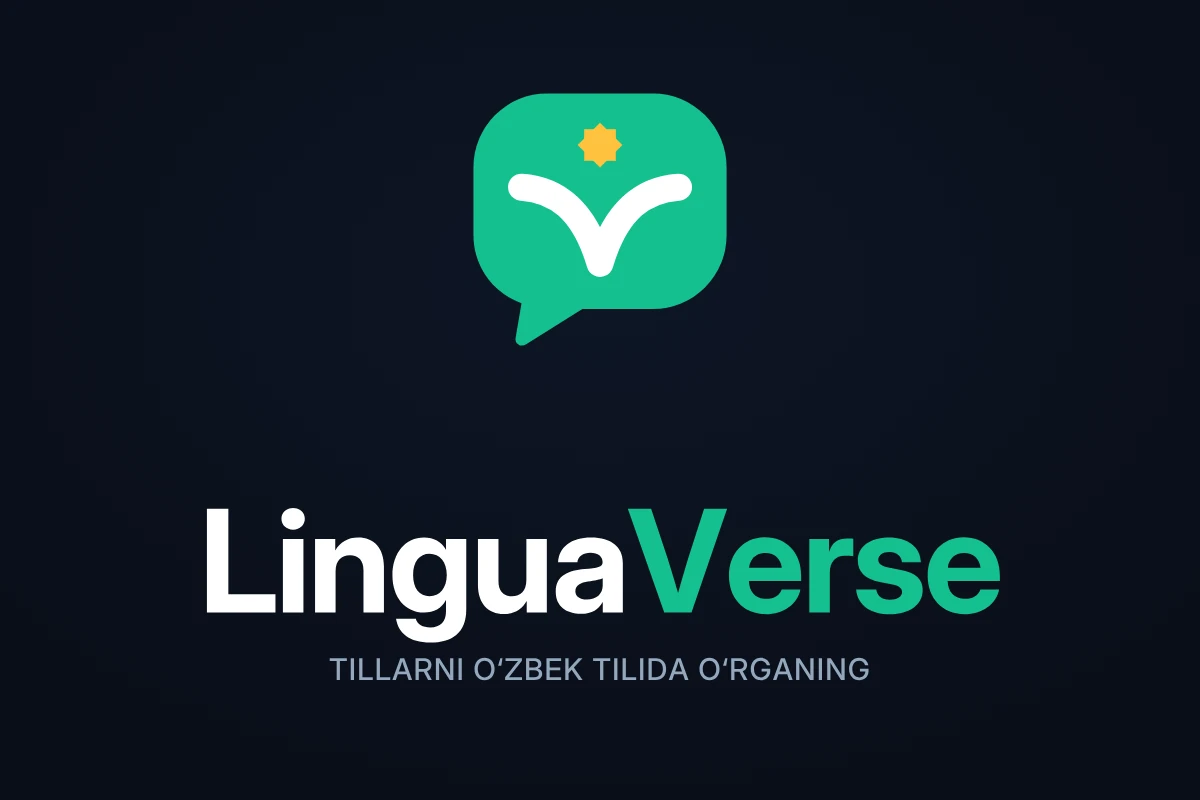
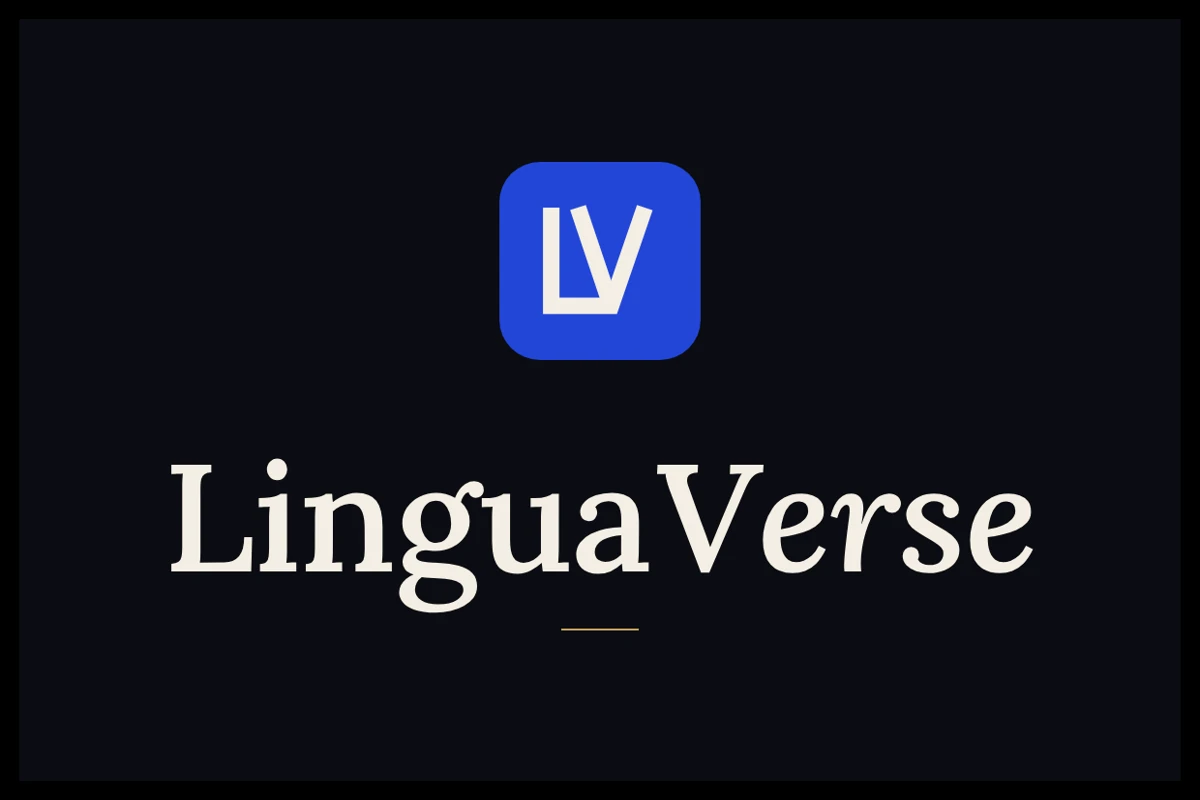
Brend: 'Samarqand × nashriyot' uslubi — LV monogramma, Lora serif sarlavhalar, siyoh/qog'oz/lojuvard palitra, emoji va o'yinchoq ranglar olib tashlandi
Claude-Session: https://claude.ai/code/session_01HZtrzLUi9H7699QjSdHDCt

Changed region(s): [[0.1233, 0.5625, 0.8633, 0.875], [0.37, 0.0938, 0.6167, 0.4688], [0.0, 0.0, 1.0, 0.75]]

diff --git a/css/lv-theme.css b/css/lv-theme.css
@@ -1,4 +1,4 @@
-@import url('https://fonts.googleapis.com/css2?family=Inter:wght@400;500;600;700;800&family=Inter+Tight:wght@600;700;800&display=swap');
+@import url('https://fonts.googleapis.com/css2?family=Inter:wght@400;500;600;700&family=Lora:ital,wght@0,500;0,600;1,500;1,600&display=swap');
 /* ═══════════════════════════════════════════════════════════════════
    LinguaVerse — YAGONA TEMA
    Butun saytda bitta shrift, bitta rang palitrasi, bitta kursor qoidasi.
@@ -1043,78 +1043,76 @@ html[data-lv-performance="powerful"] [class$="-card"] {
 
 
 /* ═══════════════════════════════════════════════════════════════════
-   LINGUAVERSE BRAND 2026 — yagona brend tizimi (barcha sahifalar)
-   Logo: /media/linguaverse-mark.svg · Asosiy rang: Verse Mint #14C08F
-   Siyoh (fon): #0A0F1A · Ikkinchi: Indigo #5B7CFF · Urg'u: Saffron #FFC23D
+   LINGUAVERSE BRAND 2026 — "Samarqand × zamonaviy nashriyot"
+   Logo: /media/linguaverse-mark.svg (LV monogramma)
+   Siyoh #0B0D12 · Qog'oz #F3EEE4 · Lojuvard #2346D8 (asosiy) · Oltin #C9A45C (juda kam)
+   Sarlavha: Lora (serif) · Matn: Inter
    ═══════════════════════════════════════════════════════════════════ */
 :root, :root[data-theme="dark"] {
-  --brand: #14C08F; --brand-2: #0FA57A; --brand-ink: #04261C; --brand-soft: rgba(20,192,143,.12);
-  --indigo: #5B7CFF; --saffron: #FFC23D;
+  --brand: #4A6CF0; --brand-2: #3A5BDF; --brand-deep: #2346D8; --brand-soft: rgba(74,108,240,.12);
+  --paper: #F3EEE4; --ink: #0B0D12; --goldline: #C9A45C;
   --font-body: 'Inter', system-ui, -apple-system, 'Segoe UI', Roboto, sans-serif;
-  --font-head: 'Inter Tight', 'Inter', system-ui, sans-serif;
+  --font-head: 'Lora', 'Georgia', 'Times New Roman', serif;
   --font-display: var(--font-head); --font-b: var(--font-body); --font-h: var(--font-head); --font-d: var(--font-head);
-  --bg: #0A0F1A; --bg2: #0F1624; --bg3: #151E30; --bg4: #1D283D;
-  --surface: rgba(255,255,255,.035); --surface2: rgba(255,255,255,.055); --surface3: rgba(255,255,255,.08);
-  --nav-bg: rgba(10,15,26,.82); --sidebar: #0F1624;
-  --text: #F4F7FB; --text2: #C6CFDC; --text3: #8E9AAE; --muted: #8E9AAE;
-  --border: rgba(255,255,255,.08); --border2: rgba(255,255,255,.14); --border-hi: rgba(20,192,143,.55);
-  --accent: #14C08F; --accent2: #FFC23D; --gold: #FFC23D; --cyan: #4FD1E8; --purple: #9B8CFF;
-  --radius: 14px; --card-hover: rgba(255,255,255,.06); --card-accent: rgba(20,192,143,.12);
-  --shadow-1: 0 1px 2px rgba(0,0,0,.25), 0 8px 24px -12px rgba(0,0,0,.45);
-  --shadow-2: 0 2px 6px rgba(0,0,0,.25), 0 24px 60px -24px rgba(0,0,0,.6);
+  --bg: #0B0D12; --bg2: #111419; --bg3: #171B22; --bg4: #1F242D;
+  --surface: rgba(243,238,228,.03); --surface2: rgba(243,238,228,.05); --surface3: rgba(243,238,228,.08);
+  --nav-bg: rgba(11,13,18,.85); --sidebar: #111419;
+  --text: #F3EEE4; --text2: #BDB7AB; --text3: #8C877D; --muted: #8C877D;
+  --border: rgba(243,238,228,.09); --border2: rgba(243,238,228,.16); --border-hi: rgba(74,108,240,.6);
+  --accent: #4A6CF0; --accent2: #C9A45C; --gold: #C9A45C; --gold2: #B08D57; --cyan: #7C9BFF; --purple: #9D93D6;
+  --green: #6FB58A; --success: #6FB58A; --yellow: #D9B25F; --orange: #D6946A; --red: #D9746C; --pink: #C98AA6;
+  --radius: 10px; --card-hover: rgba(243,238,228,.05); --card-accent: rgba(74,108,240,.1);
+  --shadow-1: 0 1px 0 rgba(243,238,228,.03) inset, 0 10px 30px -18px rgba(0,0,0,.7);
+  --shadow-2: 0 1px 0 rgba(243,238,228,.04) inset, 0 30px 70px -30px rgba(0,0,0,.85);
 }
 :root[data-theme="light"] {
-  --brand: #0EA77B; --brand-2: #0B8F69; --brand-soft: rgba(14,167,123,.1);
-  --bg: #F7F8FA; --bg2: #FFFFFF; --bg3: #EEF1F5; --bg4: #E3E8EF;
-  --surface: rgba(10,15,26,.03); --surface2: rgba(10,15,26,.045); --surface3: rgba(10,15,26,.07);
-  --nav-bg: rgba(255,255,255,.85); --sidebar: #FFFFFF;
-  --text: #0A0F1A; --text2: #364152; --text3: #667085; --muted: #667085;
-  --border: rgba(10,15,26,.09); --border2: rgba(10,15,26,.15); --border-hi: rgba(14,167,123,.5);
-  --accent: #0EA77B; --card-accent: rgba(14,167,123,.08);
-  --shadow-1: 0 1px 2px rgba(16,24,40,.06), 0 8px 24px -12px rgba(16,24,40,.12);
-  --shadow-2: 0 2px 6px rgba(16,24,40,.06), 0 24px 60px -24px rgba(16,24,40,.2);
+  --brand: #2346D8; --brand-2: #1B39B8; --brand-soft: rgba(35,70,216,.08);
+  --bg: #F5F1E8; --bg2: #FBF9F4; --bg3: #EDE7DA; --bg4: #E2DACA;
+  --surface: rgba(11,13,18,.025); --surface2: rgba(11,13,18,.04); --surface3: rgba(11,13,18,.07);
+  --nav-bg: rgba(245,241,232,.88); --sidebar: #FBF9F4;
+  --text: #0B0D12; --text2: #3A3D45; --text3: #6B6A66; --muted: #6B6A66;
+  --border: rgba(11,13,18,.1); --border2: rgba(11,13,18,.18); --border-hi: rgba(35,70,216,.5);
+  --accent: #2346D8; --accent2: #9C7A3C; --gold: #9C7A3C; --card-accent: rgba(35,70,216,.06);
+  --shadow-1: 0 1px 2px rgba(11,13,18,.05), 0 10px 30px -18px rgba(11,13,18,.18);
+  --shadow-2: 0 2px 6px rgba(11,13,18,.05), 0 30px 70px -30px rgba(11,13,18,.25);
 }
 html { -webkit-font-smoothing: antialiased; -moz-osx-font-smoothing: grayscale; text-rendering: optimizeLegibility; }
-body { font-family: var(--font-body); background-color: var(--bg); color: var(--text); font-feature-settings: "cv11", "ss01"; }
-h1, h2, h3, .sec-title, .page-title { font-family: var(--font-head); letter-spacing: -.025em; }
-h1 { letter-spacing: -.035em; }
-::selection { background: rgba(20,192,143,.3); }
-:focus-visible { outline: 2px solid var(--brand); outline-offset: 2px; border-radius: 6px; }
+body { font-family: var(--font-body); background-color: var(--bg); color: var(--text); }
+h1, h2, .sec-title, .page-title, .hero h1 { font-family: var(--font-head); font-weight: 500; letter-spacing: -.02em; }
+h3 { font-family: var(--font-body); font-weight: 600; letter-spacing: -.01em; }
+h1 em, h2 em, .sec-title em { font-style: italic; color: inherit; }
+::selection { background: rgba(74,108,240,.35); }
+:focus-visible { outline: 2px solid var(--brand); outline-offset: 2px; border-radius: 4px; }
+a { text-underline-offset: 3px; }
 
-/* Logo belgisi — har sahifadagi matnli logo oldiga qo'yiladi */
+/* Logo: LV monogramma + serif yozuv */
 .logo:not(:has(img)), .nav-logo:not(:has(img)), .drawer-logo:not(:has(img)), .auth-logo:not(:has(img)) {
-  display: inline-flex; align-items: center; gap: 0; font-family: var(--font-head); font-weight: 700; letter-spacing: -.03em; color: var(--text); text-decoration: none;
+  display: inline-flex; align-items: center; gap: 0; font-family: var(--font-head); font-weight: 600; letter-spacing: -.01em; color: var(--text); text-decoration: none;
 }
 .logo:not(:has(img))::before, .nav-logo:not(:has(img))::before, .drawer-logo:not(:has(img))::before, .auth-logo:not(:has(img))::before {
-  content: ""; width: 1.55em; height: 1.55em; flex: none; margin-right: .45em; background: url(/media/linguaverse-mark.svg) center / contain no-repeat;
+  content: ""; width: 1.5em; height: 1.5em; flex: none; margin-right: .5em; border-radius: 5px; background: url(/media/linguaverse-mark.svg) center / contain no-repeat;
 }
-.logo span, .nav-logo span, .drawer-logo span, .auth-logo span { color: var(--brand); }
+.logo span, .nav-logo span, .drawer-logo span, .auth-logo span { color: inherit; font-style: italic; }
 
-/* Navigatsiya */
-nav, .nav, .topbar { backdrop-filter: saturate(180%) blur(14px); -webkit-backdrop-filter: saturate(180%) blur(14px); border-bottom: 1px solid var(--border); }
+nav, .nav, .topbar { backdrop-filter: saturate(160%) blur(14px); -webkit-backdrop-filter: saturate(160%) blur(14px); border-bottom: 1px solid var(--border); }
 
-/* Tugmalar */
-.btn-fill, .btn-primary, .btn.primary, .btn-save, .cta-btn {
-  background: var(--brand); color: #fff; border: 1px solid transparent; font-weight: 600; letter-spacing: -.01em;
-  box-shadow: 0 1px 0 rgba(255,255,255,.2) inset, 0 6px 18px -8px rgba(20,192,143,.7); transition: background .15s, transform .15s, box-shadow .15s;
+/* Tugmalar — asosiy: qog'oz rang (premium), ikkinchi: ingichka chegara */
+.btn-fill, .btn-primary, .btn.primary, .cta-btn {
+  background: var(--text); color: var(--bg); border: 1px solid var(--text); font-weight: 600; letter-spacing: -.005em; box-shadow: none; transition: opacity .15s, transform .15s;
 }
-.btn-fill:hover, .btn-primary:hover, .btn.primary:hover, .btn-save:hover, .cta-btn:hover { background: var(--brand-2); transform: translateY(-1px); }
+.btn-fill:hover, .btn-primary:hover, .btn.primary:hover, .cta-btn:hover { opacity: .88; transform: translateY(-1px); }
+.btn-save { background: var(--brand); color: #fff; border: 1px solid transparent; font-weight: 600; box-shadow: none; }
 .btn-line, .btn.ghost, .btn-secondary { background: transparent; color: var(--text); border: 1px solid var(--border2); font-weight: 600; }
-.btn-line:hover, .btn.ghost:hover, .btn-secondary:hover { border-color: var(--text3); background: var(--surface); }
-.btn, .btn-fill, .btn-line { border-radius: 10px; }
+.btn-line:hover, .btn.ghost:hover, .btn-secondary:hover { border-color: var(--text3); }
+.btn, .btn-fill, .btn-line { border-radius: 8px; }
 
-/* Bo'lim sarlavhalari */
-.sec-label { color: var(--brand); font-weight: 600; letter-spacing: .08em; font-size: 12.5px; }
-.sec-title { font-weight: 700; }
+.sec-label { color: var(--goldline); font-weight: 600; letter-spacing: .14em; font-size: 11.5px; text-transform: uppercase; }
+.sec-title { font-weight: 500; }
 .sec-sub, .sec-desc { color: var(--text2); }
 
-/* Kartalar */
 .card, .feat, .sec-card, .lang-card, .practice-card, .plan-card, .fb-card {
-  border: 1px solid var(--border); border-radius: var(--radius); background: var(--bg2); box-shadow: var(--shadow-1);
-  transition: border-color .2s, transform .2s, box-shadow .2s;
+  border: 1px solid var(--border); border-radius: var(--radius); background: var(--bg2); box-shadow: var(--shadow-1); transition: border-color .2s, transform .2s;
 }
-.feat:hover, .lang-card:hover, .practice-card:hover, .sec-card:hover, .plan-card:hover { border-color: var(--border2); transform: translateY(-2px); box-shadow: var(--shadow-2); }
-.feat-ic { background: var(--brand-soft) !important; color: var(--brand) !important; border-radius: 10px; }
-
-/* Shakllar */
+.feat:hover, .lang-card:hover, .practice-card:hover, .sec-card:hover, .plan-card:hover { border-color: var(--border2); transform: translateY(-2px); }
+.feat-ic { background: transparent !important; color: var(--text2) !important; border: 1px solid var(--border2); border-radius: 8px; }
 input, select, textarea { font-family: inherit; }

diff --git a/css/lv-home.css b/css/lv-home.css
@@ -1,8 +1,8 @@
 /* Bosh sahifa — hero (LinguaVerse brand 2026) */
 .lvh { position: relative; padding: 72px 0 36px; overflow: hidden; }
 .lvh::before { content: ""; position: absolute; inset: -20% -10% auto; height: 760px; pointer-events: none;
-  background: radial-gradient(600px 340px at 72% 30%, rgba(20,192,143,.16), transparent 70%), radial-gradient(520px 300px at 18% 0%, rgba(91,124,255,.13), transparent 70%); }
-.lvh::after { content: ""; position: absolute; inset: 0; pointer-events: none; opacity: .5;
+  background: radial-gradient(700px 380px at 75% 25%, rgba(35,70,216,.16), transparent 70%); }
+.lvh::after { content: ""; position: absolute; inset: 0; pointer-events: none; opacity: .35;
   background-image: linear-gradient(var(--border) 1px, transparent 1px), linear-gradient(90deg, var(--border) 1px, transparent 1px); background-size: 56px 56px;
   mask-image: radial-gradient(ellipse 70% 60% at 50% 20%, #000 20%, transparent 75%); -webkit-mask-image: radial-gradient(ellipse 70% 60% at 50% 20%, #000 20%, transparent 75%); }
 .lvh .wrap { position: relative; z-index: 1; }
@@ -10,45 +10,45 @@
 .lvh-pill { display: inline-flex; align-items: center; gap: 10px; padding: 5px 12px 5px 5px; border: 1px solid var(--border2); border-radius: 999px; color: var(--text2); text-decoration: none; font-size: 13px; background: var(--surface); transition: border-color .2s; }
 .lvh-pill:hover { border-color: var(--border-hi); }
 .lvh-pill b { font-weight: 500; } .lvh-pill i { font-size: 11px; color: var(--text3); }
-.lvh-new { background: var(--brand); color: #fff; font-weight: 700; font-size: 11.5px; padding: 3px 9px; border-radius: 999px; }
-.lvh h1 { font-size: clamp(42px, 6.2vw, 76px); line-height: 1.02; font-weight: 800; margin: 22px 0 18px; color: var(--text); text-align: left; }
-.lvh h1 em { font-style: normal; color: var(--brand); }
+.lvh-new { background: transparent; color: var(--goldline); border: 1px solid rgba(201,164,92,.45); font-weight: 700; font-size: 11.5px; padding: 3px 9px; border-radius: 999px; }
+.lvh h1 { font-size: clamp(44px, 6.6vw, 84px); line-height: 1; font-weight: 500; margin: 22px 0 18px; color: var(--text); text-align: left; }
+.lvh h1 em { font-style: italic; color: var(--text); background: linear-gradient(transparent 82%, rgba(201,164,92,.55) 82%, rgba(201,164,92,.55) 90%, transparent 90%); }
 .lvh-p { font-size: clamp(16.5px, 1.5vw, 19px); line-height: 1.6; color: var(--text2); max-width: 560px; margin: 0; }
 .lvh-btns { display: flex; gap: 12px; margin-top: 30px; flex-wrap: wrap; }
 .lvh-cta { padding: 14px 22px !important; font-size: 15.5px !important; min-height: 50px; display: inline-flex; align-items: center; justify-content: center; }
 .lvh-trust { margin-top: 18px; font-size: 13.5px; color: var(--text3); display: flex; gap: 8px; align-items: center; flex-wrap: wrap; }
-.lvh-trust i { color: var(--brand); } .lvh-trust span { opacity: .5; }
-.lvh-langs { display: flex; flex-wrap: wrap; gap: 8px; margin-top: 30px; }
-.lvh-langs span { font-size: 13px; color: var(--text2); border: 1px solid var(--border); background: var(--surface); border-radius: 8px; padding: 6px 10px; }
+.lvh-trust i { color: var(--text2); } .lvh-trust span { opacity: .35; }
+.lvh-langs { display: flex; flex-wrap: wrap; gap: 6px 18px; margin-top: 34px; padding-top: 22px; border-top: 1px solid var(--border); }
+.lvh-langs span { font-size: 14px; color: var(--text3); letter-spacing: .01em; }
 
 .lvh-visual { position: relative; }
-.lvh-window { border: 1px solid var(--border2); border-radius: 18px; background: var(--bg2); box-shadow: var(--shadow-2), 0 0 0 6px var(--surface); overflow: hidden; }
+.lvh-window { border: 1px solid var(--border2); border-radius: 14px; background: var(--bg2); box-shadow: var(--shadow-2); overflow: hidden; }
 .lvh-bar { display: flex; align-items: center; gap: 6px; padding: 12px 14px; border-bottom: 1px solid var(--border); }
 .lvh-bar i { width: 10px; height: 10px; border-radius: 50%; background: var(--surface3); }
 .lvh-bar span { margin-left: 10px; font-size: 12px; color: var(--text3); font-family: ui-monospace, Menlo, monospace; }
 .lvh-video { position: relative; aspect-ratio: 16/9; padding: 28px; display: flex; flex-direction: column; justify-content: center; gap: 12px;
-  background: radial-gradient(420px 220px at 80% 10%, rgba(20,192,143,.22), transparent 70%), linear-gradient(160deg, #0F1E2E, #0A1220); color: #F4F7FB; }
-.lvh-say { font-family: var(--font-head); font-weight: 700; font-size: clamp(19px, 2.1vw, 27px); letter-spacing: -.02em; line-height: 1.25; max-width: 92%; }
-.lvh-say u { text-decoration: none; color: #14C08F; border-bottom: 2px solid #14C08F; }
-.lvh-sub { font-size: 14px; color: #B9C4D3; max-width: 92%; } .lvh-sub b { color: #FFC23D; font-weight: 600; }
-.lvh-play { position: absolute; right: 22px; bottom: 30px; width: 46px; height: 46px; border-radius: 50%; background: #14C08F; color: #fff; display: grid; place-items: center; box-shadow: 0 8px 24px -6px rgba(20,192,143,.8); }
-.lvh-prog { position: absolute; left: 0; right: 0; bottom: 0; height: 4px; background: rgba(255,255,255,.1); } .lvh-prog span { display: block; height: 100%; background: #14C08F; }
+  background: radial-gradient(420px 220px at 85% 0%, rgba(35,70,216,.35), transparent 70%), linear-gradient(165deg, #131826, #0B0D12); color: #F3EEE4; }
+.lvh-say { font-family: var(--font-head); font-weight: 500; font-size: clamp(19px, 2.1vw, 27px); letter-spacing: -.02em; line-height: 1.25; max-width: 92%; }
+.lvh-say u { text-decoration: none; font-style: italic; border-bottom: 2px solid #C9A45C; }
+.lvh-sub { font-size: 14px; color: #B9C4D3; max-width: 92%; } .lvh-sub b { color: #F3EEE4; font-weight: 600; }
+.lvh-play { position: absolute; right: 22px; bottom: 30px; width: 46px; height: 46px; border-radius: 50%; background: #F3EEE4; color: #0B0D12; display: grid; place-items: center; box-shadow: none; }
+.lvh-prog { position: absolute; left: 0; right: 0; bottom: 0; height: 4px; background: rgba(255,255,255,.1); } .lvh-prog span { display: block; height: 100%; background: #4A6CF0; }
 .lvh-row { display: flex; gap: 14px; align-items: center; padding: 16px 18px; }
 .lvh-score { position: relative; width: 54px; height: 54px; flex: none; }
 .lvh-score svg { width: 100%; height: 100%; transform: rotate(-90deg); } .lvh-score circle { fill: none; stroke: var(--surface3); stroke-width: 3.5; } .lvh-score .v { stroke: var(--brand); stroke-linecap: round; }
 .lvh-score b { position: absolute; inset: 0; display: grid; place-items: center; font-size: 16px; font-weight: 800; }
 .lvh-k { font-size: 12px; color: var(--text3); text-transform: uppercase; letter-spacing: .06em; font-weight: 600; }
 .lvh-w { margin-top: 4px; display: flex; gap: 6px; flex-wrap: wrap; font-size: 14px; font-weight: 600; }
-.lvh-w span { padding: 2px 8px; border-radius: 6px; } .lvh-w .ok { background: rgba(20,192,143,.14); color: var(--brand); } .lvh-w .mid { background: rgba(255,194,61,.16); color: #E0A520; }
+.lvh-w span { padding: 2px 8px; border-radius: 6px; } .lvh-w .ok { background: var(--brand-soft); color: var(--brand); } .lvh-w .mid { background: rgba(201,164,92,.14); color: var(--goldline); }
 .lvh-float { position: absolute; display: flex; gap: 10px; align-items: center; padding: 10px 14px; border-radius: 12px; border: 1px solid var(--border2); background: var(--bg2); box-shadow: var(--shadow-2); font-size: 13px; animation: lvhFloat 6s ease-in-out infinite; }
 .lvh-float i { width: 32px; height: 32px; border-radius: 9px; display: grid; place-items: center; font-size: 14px; }
 .lvh-float b { display: block; font-size: 14px; } .lvh-float span { color: var(--text3); font-size: 12px; }
-.lvh-f1 { left: -30px; bottom: -24px; } .lvh-f1 i { background: rgba(255,194,61,.16); color: #FFC23D; }
-.lvh-f2 { right: -18px; top: 64px; animation-delay: -3s; } .lvh-f2 i { background: rgba(91,124,255,.16); color: #5B7CFF; }
+.lvh-f1 { display: none; } .lvh-f1 i { background: rgba(201,164,92,.14); color: var(--goldline); }
+.lvh-f2 { right: -18px; top: 64px; animation-delay: -3s; } .lvh-f2 i { background: var(--brand-soft); color: var(--brand); }
 @keyframes lvhFloat { 50% { transform: translateY(-8px); } }
-.lvh-stats { display: grid; grid-template-columns: repeat(4, 1fr); margin-top: 64px; border: 1px solid var(--border); border-radius: 16px; background: var(--surface); }
+.lvh-stats { display: grid; grid-template-columns: repeat(4, 1fr); margin-top: 72px; border-top: 1px solid var(--border); border-bottom: 1px solid var(--border); }
 .lvh-stats > div { padding: 22px 24px; border-left: 1px solid var(--border); } .lvh-stats > div:first-child { border-left: 0; }
-.lvh-stats b { display: block; font-family: var(--font-head); font-size: clamp(24px, 2.6vw, 34px); font-weight: 800; letter-spacing: -.03em; }
+.lvh-stats b { display: block; font-family: var(--font-head); font-size: clamp(26px, 2.8vw, 38px); font-weight: 500; letter-spacing: -.02em; }
 .lvh-stats span { color: var(--text3); font-size: 13.5px; }
 @media (prefers-reduced-motion: reduce) { .lvh-float { animation: none; } }
 @media (max-width: 960px) {

diff --git a/languages-html/partners.html b/languages-html/partners.html
@@ -4,19 +4,20 @@
 <meta charset="utf-8"><meta name="viewport" content="width=device-width,initial-scale=1">
 <meta name="description" content="LinguaVerse Hamkorlik markazi: do'stlar, o'qituvchilar, kontent yaratuvchilar, o'quv markazlari va brendlar uchun 20–45% komissiya, avtomatik hisob-kitob.">
 <title>Hamkorlik markazi — LinguaVerse</title>
+<link rel="preconnect" href="https://fonts.googleapis.com"><link href="https://fonts.googleapis.com/css2?family=Inter:wght@400;500;600;700&family=Lora:ital,wght@0,500;1,500&display=swap" rel="stylesheet">
 <link rel="icon" type="image/svg+xml" href="/media/linguaverse-mark.svg"><link rel="apple-touch-icon" href="/media/apple-touch-icon.png">
 <style>
-:root{color-scheme:dark;--a:#14C08F;--a2:#7aa7ff;--gold:#f5c842;--red:#ff7b8a;--bg:#080e17;--s1:#0f1826;--s2:#152234;--line:#26364b;--text:#eef5ff;--muted:#93a7bd;--r:18px}
+:root{color-scheme:dark;--a:#4A6CF0;--a2:#7C9BFF;--gold:#C9A45C;--red:#D9746C;--bg:#0B0D12;--s1:#111419;--s2:#151920;--line:rgba(243,238,228,.1);--text:#F3EEE4;--muted:#8C877D;--r:12px}
 *{box-sizing:border-box}html{scroll-behavior:smooth}
-body{margin:0;background:radial-gradient(ellipse 70% 30% at 85% -5%,#12405044,transparent),radial-gradient(ellipse 50% 25% at 0% 10%,#2a2f6b33,transparent),var(--bg);color:var(--text);font:15.5px/1.6 system-ui,-apple-system,"Segoe UI",sans-serif}
+body{margin:0;background:radial-gradient(ellipse 60% 30% at 85% -5%,rgba(35,70,216,.18),transparent),var(--bg);color:var(--text);font:15.5px/1.6 Inter,system-ui,-apple-system,"Segoe UI",sans-serif}
 a{color:var(--a)}.wrap{max-width:1180px;margin:auto;padding:0 20px}
 header{display:flex;justify-content:space-between;align-items:center;gap:12px;padding:18px 0}
 .logo{color:#fff;text-decoration:none;font-size:22px;font-weight:800;letter-spacing:-.8px;display:flex;align-items:center}.logo img{margin-right:9px}.logo span{color:var(--a)}
 nav{display:flex;gap:18px;align-items:center}nav a{color:var(--muted);text-decoration:none;font-size:14px}nav a:hover{color:#fff}
 .btn{display:inline-flex;align-items:center;justify-content:center;gap:8px;border:0;border-radius:12px;padding:12px 18px;font:700 14.5px system-ui;cursor:pointer;text-decoration:none;transition:.15s}
-.btn.p{background:var(--a);color:#05211c}.btn.p:hover{filter:brightness(1.08)}.btn.g{background:var(--s2);color:var(--text);border:1px solid var(--line)}.btn.g:hover{border-color:#3a5070}.btn:disabled{opacity:.55;cursor:default}.btn.sm{padding:8px 12px;font-size:13px;border-radius:10px}
+.btn.p{background:var(--text);color:var(--bg)}.btn.p:hover{filter:brightness(1.08)}.btn.g{background:var(--s2);color:var(--text);border:1px solid var(--line)}.btn.g:hover{border-color:#3a5070}.btn:disabled{opacity:.55;cursor:default}.btn.sm{padding:8px 12px;font-size:13px;border-radius:10px}
 .eyebrow{color:var(--a);text-transform:uppercase;letter-spacing:2.5px;font-size:11.5px;font-weight:800}
-h1{font-size:clamp(34px,5.4vw,62px);letter-spacing:-2.2px;line-height:1.04;margin:12px 0 16px}h2{font-size:clamp(24px,3vw,32px);letter-spacing:-.8px;margin:0 0 8px}h3{margin:0 0 6px;font-size:17px}
+h1{font-family:Lora,Georgia,serif;font-weight:500;font-size:clamp(36px,5.6vw,66px);letter-spacing:-1.2px;line-height:1.04;margin:12px 0 16px}h2{font-family:Lora,Georgia,serif;font-weight:500}h2{font-size:clamp(24px,3vw,32px);letter-spacing:-.8px;margin:0 0 8px}h3{margin:0 0 6px;font-size:17px}
 .muted{color:var(--muted)}.small{font-size:13px}.hero{padding:46px 0 26px;display:grid;grid-template-columns:1.25fr .75fr;gap:30px;align-items:center}
 .hero p{font-size:17.5px;color:#b7c7d8;max-width:620px}
 .kpis{display:grid;grid-template-columns:repeat(2,1fr);gap:12px}.kpi{background:linear-gradient(160deg,var(--s2),var(--s1));border:1px solid var(--line);border-radius:16px;padding:16px}.kpi b{display:block;font-size:26px;letter-spacing:-1px}.kpi span{color:var(--muted);font-size:13px}
@@ -60,7 +61,7 @@ footer{padding:40px 0;color:var(--muted);font-size:13px;border-top:1px solid var
 <body>
 <div class="wrap">
 <header>
-  <a class="logo" href="/index.html"><img src="/media/linguaverse-mark.webp" width="38" height="38" alt="">Lingua<span>Verse</span></a>
+  <a class="logo" href="/index.html" style="font-family:Lora,Georgia,serif;font-weight:600;letter-spacing:-.3px"><img src="/media/linguaverse-mark.svg" width="34" height="34" alt="" style="border-radius:7px">Lingua<span style="color:inherit;font-style:italic">Verse</span></a>
   <nav><a class="hide-sm" href="/languages-html/courses.html">Kurslar</a><a class="hide-sm" href="#faq">Savollar</a><a href="/languages-html/earn.html">Hamyon</a><a id="navAuth" class="btn g sm" href="/auth/login.html?redirect=partners">Kirish</a></nav>
 </header>
 

diff --git a/index.html b/index.html
@@ -754,16 +754,16 @@
     <div class="wrap lvh-grid">
       <div class="lvh-copy">
         <div id="loadWarn"></div>
-        <a class="lvh-pill" href="languages-html/courses.html"><span class="lvh-new">Yangi</span><b data-i18n="hero_badge">AI ustoz · Talaffuz bahosi · 8 til</b><i class="fa-solid fa-arrow-right"></i></a>
+        <a class="lvh-pill" href="languages-html/courses.html"><span class="lvh-new">2026</span><b data-i18n="hero_badge">AI ustoz · Talaffuz bahosi · 8 til</b><i class="fa-solid fa-arrow-right"></i></a>
         <h1><span data-i18n="hero_h1a">Tilni</span> <em data-i18n="hero_h1b">gapirib</em> <span data-i18n="hero_h1c">o'rganing.</span></h1>
         <p class="lvh-p" data-i18n="hero_p">AI ustoz sizni tinglaydi, har bir tovushga ball qo'yadi va xatoni sababi bilan tushuntiradi. Anketadan keyin shaxsiy o'quv rejangiz tayyor bo'ladi.</p>
         <div class="lvh-btns">
           <a href="auth/register.html" class="btn btn-fill lvh-cta" id="ctaMain" data-i18n="hero_btn1">Bepul boshlash</a>
           <a href="#plans" class="btn btn-line lvh-cta" data-i18n="hero_btn2">Narxlarni ko'rish</a>
         </div>
-        <div class="lvh-trust"><i class="fa-solid fa-circle-check"></i> Karta talab qilinmaydi <span>·</span> <i class="fa-solid fa-circle-check"></i> O'zbek tilida tushuntirish</div>
+        <div class="lvh-trust">Karta talab qilinmaydi <span>·</span> O'zbek tilida tushuntirish <span>·</span> A1 dan C2 gacha</div>
         <div class="lvh-langs" aria-label="Tillar">
-          <span>🇬🇧 English</span><span>🇷🇺 Русский</span><span>🇹🇷 Türkçe</span><span>🇩🇪 Deutsch</span><span>🇪🇸 Español</span><span>🇸🇦 العربية</span><span>🇨🇳 中文</span><span>🇰🇷 한국어</span>
+          <span>English</span><span>Русский</span><span>Türkçe</span><span>Deutsch</span><span>Español</span><span>العربية</span><span>中文</span><span>한국어</span>
         </div>
       </div>
       <div class="lvh-visual" aria-hidden="true">
@@ -1897,7 +1897,7 @@
         'Batafsil xato: brauzerda F12 <i class="fa-solid fa-arrow-right"></i> Console.';
     }, 6000);
   </script>
-<a href="/languages-html/partners.html" style="position:fixed;bottom:17px;left:18px;z-index:30;border:1px solid #33596b;border-radius:100px;background:#102b37;color:#9ef5da;padding:10px 15px;text-decoration:none;font:700 13px system-ui;box-shadow:0 8px 25px #0004">🤝 Hamkorlik markazi · 20–45%</a>
+<a href="/languages-html/partners.html" style="position:fixed;bottom:17px;left:18px;z-index:30;border:1px solid rgba(243,238,228,.16);border-radius:8px;background:#111419;color:#F3EEE4;padding:10px 15px;text-decoration:none;font:700 13px system-ui;box-shadow:0 8px 25px #0004">Hamkorlik markazi →</a>
 <script type="module" src="/js/partner-ref.js"></script>
 </body>
 

diff --git a/css/learning-language.css b/css/learning-language.css
@@ -1,4 +1,4 @@
-.lv-language-button{position:fixed;inset-inline-end:18px;bottom:18px;z-index:90;border:1px solid #638782;border-radius:30px;padding:11px 17px;background:#102a2b;color:#e5fff7;font:600 14px system-ui;cursor:pointer;box-shadow:0 6px 28px #0004}
+.lv-language-button{position:fixed;inset-inline-end:18px;bottom:18px;z-index:90;border:1px solid rgba(243,238,228,.16);border-radius:8px;padding:10px 15px;background:#111419;color:#F3EEE4;font:600 14px system-ui;cursor:pointer;box-shadow:0 6px 28px #0004}
 .lv-language-button:focus-visible,.lv-language-dialog button:focus-visible,.lv-language-dialog select:focus-visible{outline:3px solid #92e9d4;outline-offset:4px}
 .lv-language-dialog{width:min(580px,calc(100% - 28px));max-height:calc(100dvh - 40px);overflow:auto;padding:38px;border:1px solid #3b5655;border-radius:24px;background:radial-gradient(ellipse at top right,#163e3c,#0c1a22 65%);color:#f4f7f6;font:16px/1.6 system-ui;margin:auto;box-shadow:0 30px 100px #0008}
 .lv-language-dialog::backdrop{background:#020b16c9;backdrop-filter:blur(9px)}
